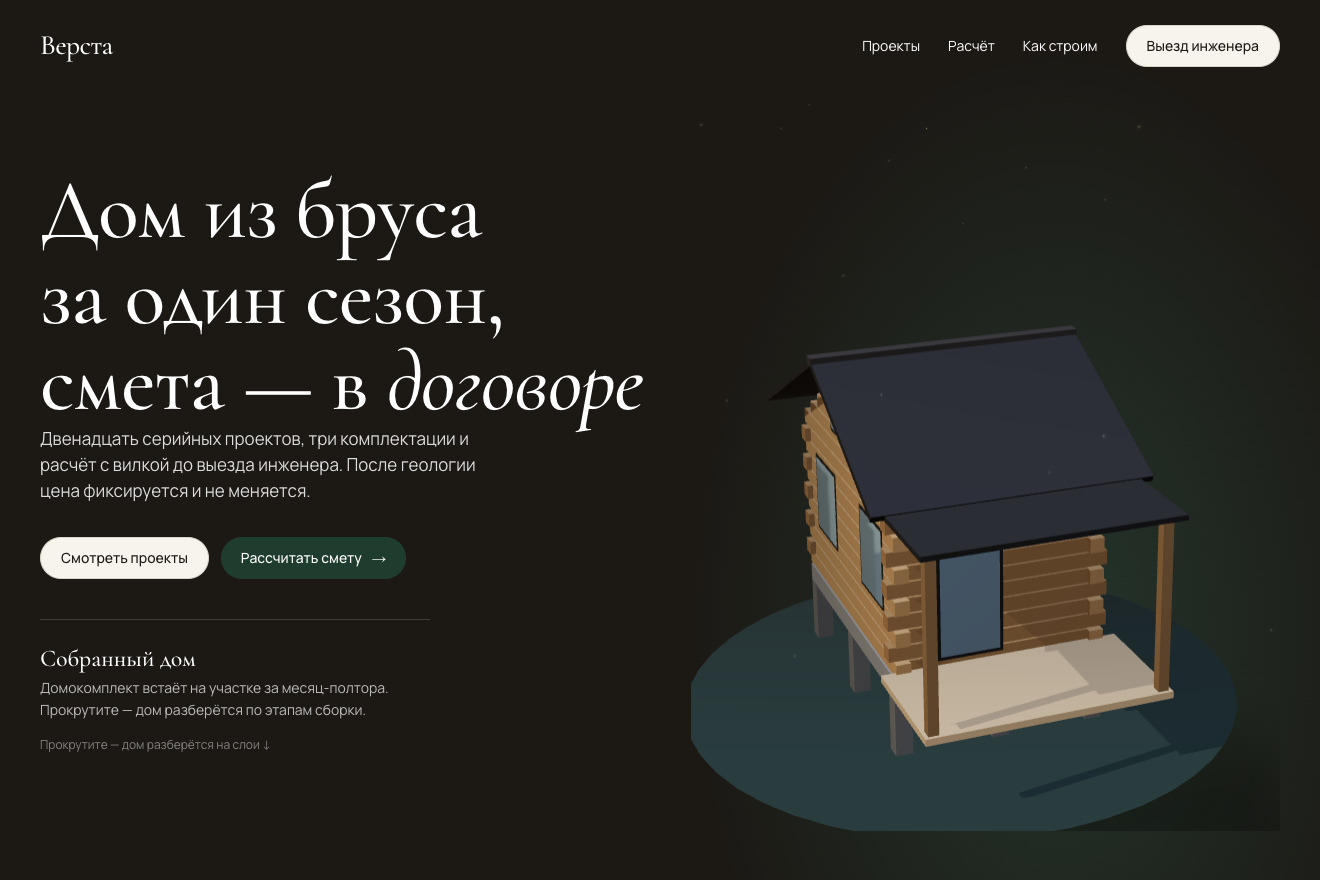
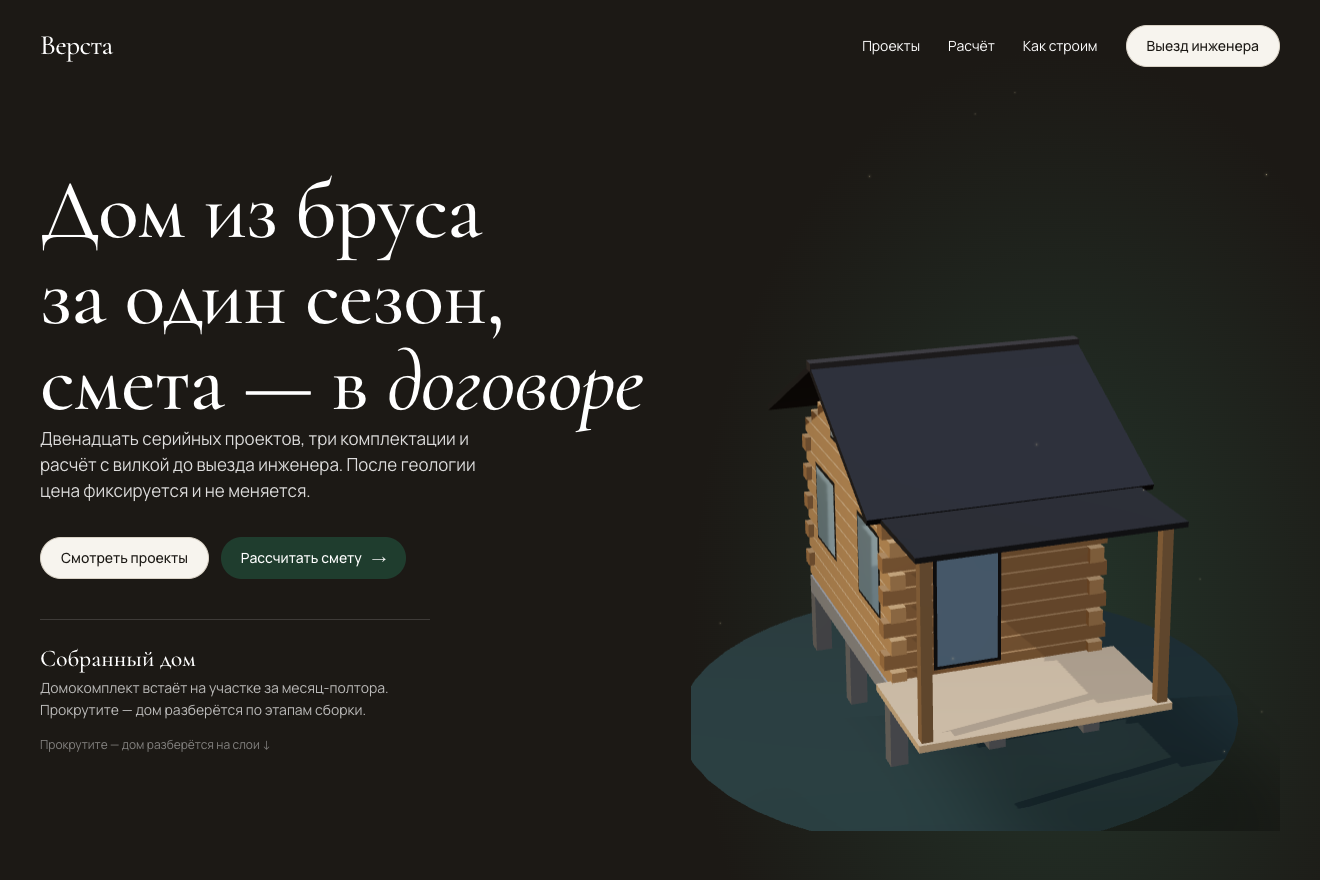
Versta: камера следит за разборкой — дом центрирован и не режется снизу

diff --git a/Versta/components/HouseScene.tsx b/Versta/components/HouseScene.tsx
@@ -128,8 +128,6 @@ function House({ reduce, progress }: { reduce: boolean; progress: MutableRefObje
     const k = Math.min(1, dt * 4);
     g.rotation.y += (ty - g.rotation.y) * k;
     g.rotation.x += (tx - g.rotation.x) * k;
-    // при разборке чуть отъезжаем вниз, чтобы поднятая кровля осталась в кадре
-    g.position.y += ((-1.15 - p * 0.9) - g.position.y) * k;
   });
 
   const wallTop = ROWS * (H + GAP);
@@ -162,7 +160,7 @@ function House({ reduce, progress }: { reduce: boolean; progress: MutableRefObje
   const postH = canopyY - 0.03 - 0.06;       // столбы — до низа навеса, не сквозь него
 
   return (
-    <group ref={group} position={[-0.35, -1.15, 0]} scale={0.6}>
+    <group ref={group} position={[-0.35, -0.85, 0]} scale={0.6}>
       <Layer k="found" index={3} progress={progress}>
         <mesh position={[0, -0.12, 0]} receiveShadow><boxGeometry args={[W + 0.2, 0.22, D + 0.2]} /><meshStandardMaterial color={GRILLAGE} roughness={0.95} emissive="#E8B56B" emissiveIntensity={0} /></mesh>
         {[[-W / 2, -D / 2], [W / 2, -D / 2], [-W / 2, D / 2], [W / 2, D / 2], [0, -D / 2], [0, D / 2], [-W / 2, 0], [W / 2, 0]].map(([x, z], i) => (
@@ -201,12 +199,31 @@ function House({ reduce, progress }: { reduce: boolean; progress: MutableRefObje
   );
 }
 
+
+/** камера следит за разборкой: отъезжает и поднимает точку взгляда, чтобы стопка слоёв оставалась в кадре целиком */
+function CameraRig({ progress }: { progress: MutableRefObject<number> }) {
+  const target = useRef(new THREE.Vector3(0, 0.35, 0));
+  useFrame(({ camera }, dt) => {
+    const p = progress.current;
+    const k = Math.min(1, dt * 3.5);
+    const px = 6.8 + p * 2.4, py = 3.9 + p * 2.6, pz = 8.4 + p * 3.0;
+    camera.position.x += (px - camera.position.x) * k;
+    camera.position.y += (py - camera.position.y) * k;
+    camera.position.z += (pz - camera.position.z) * k;
+    const ty = 0.35 + p * 1.05;
+    target.current.y += (ty - target.current.y) * k;
+    camera.lookAt(target.current);
+  });
+  return null;
+}
+
 export default function HouseScene({ progress }: SceneProps) {
   const [reduce, setReduce] = useState(false);
   useEffect(() => { setReduce(window.matchMedia('(prefers-reduced-motion: reduce)').matches); }, []);
   return (
     <Canvas shadows dpr={[1, 1.75]} camera={{ position: [6.8, 3.9, 8.4], fov: 25 }} gl={{ antialias: true, alpha: true }} style={{ background: 'transparent' }}>
-      <fog attach="fog" args={['#1C1915', 9, 20]} />
+      <CameraRig progress={progress} />
+      <fog attach="fog" args={['#1C1915', 10, 24]} />
       <ambientLight intensity={0.25} />
       <directionalLight position={[-2.5, 6.5, 6.5]} intensity={1.7} castShadow shadow-mapSize={[2048, 2048]} shadow-bias={-0.0004} />
       <directionalLight position={[5, 3, -5]} intensity={0.35} color="#cfe0d8" />
@@ -217,7 +234,7 @@ export default function HouseScene({ progress }: SceneProps) {
         <House reduce={reduce} progress={progress} />
       </Float>
       {!reduce && <Sparkles count={40} scale={[7, 5, 7]} position={[0, 1.4, 0]} size={2.2} speed={0.25} opacity={0.35} color="#E6C58A" />}
-      <ContactShadows position={[-0.3, -1.76, 0]} opacity={0.5} scale={12} blur={2.4} far={4} />
+      <ContactShadows position={[-0.3, -1.46, 0]} opacity={0.5} scale={12} blur={2.4} far={4} />
     </Canvas>
   );
 }
